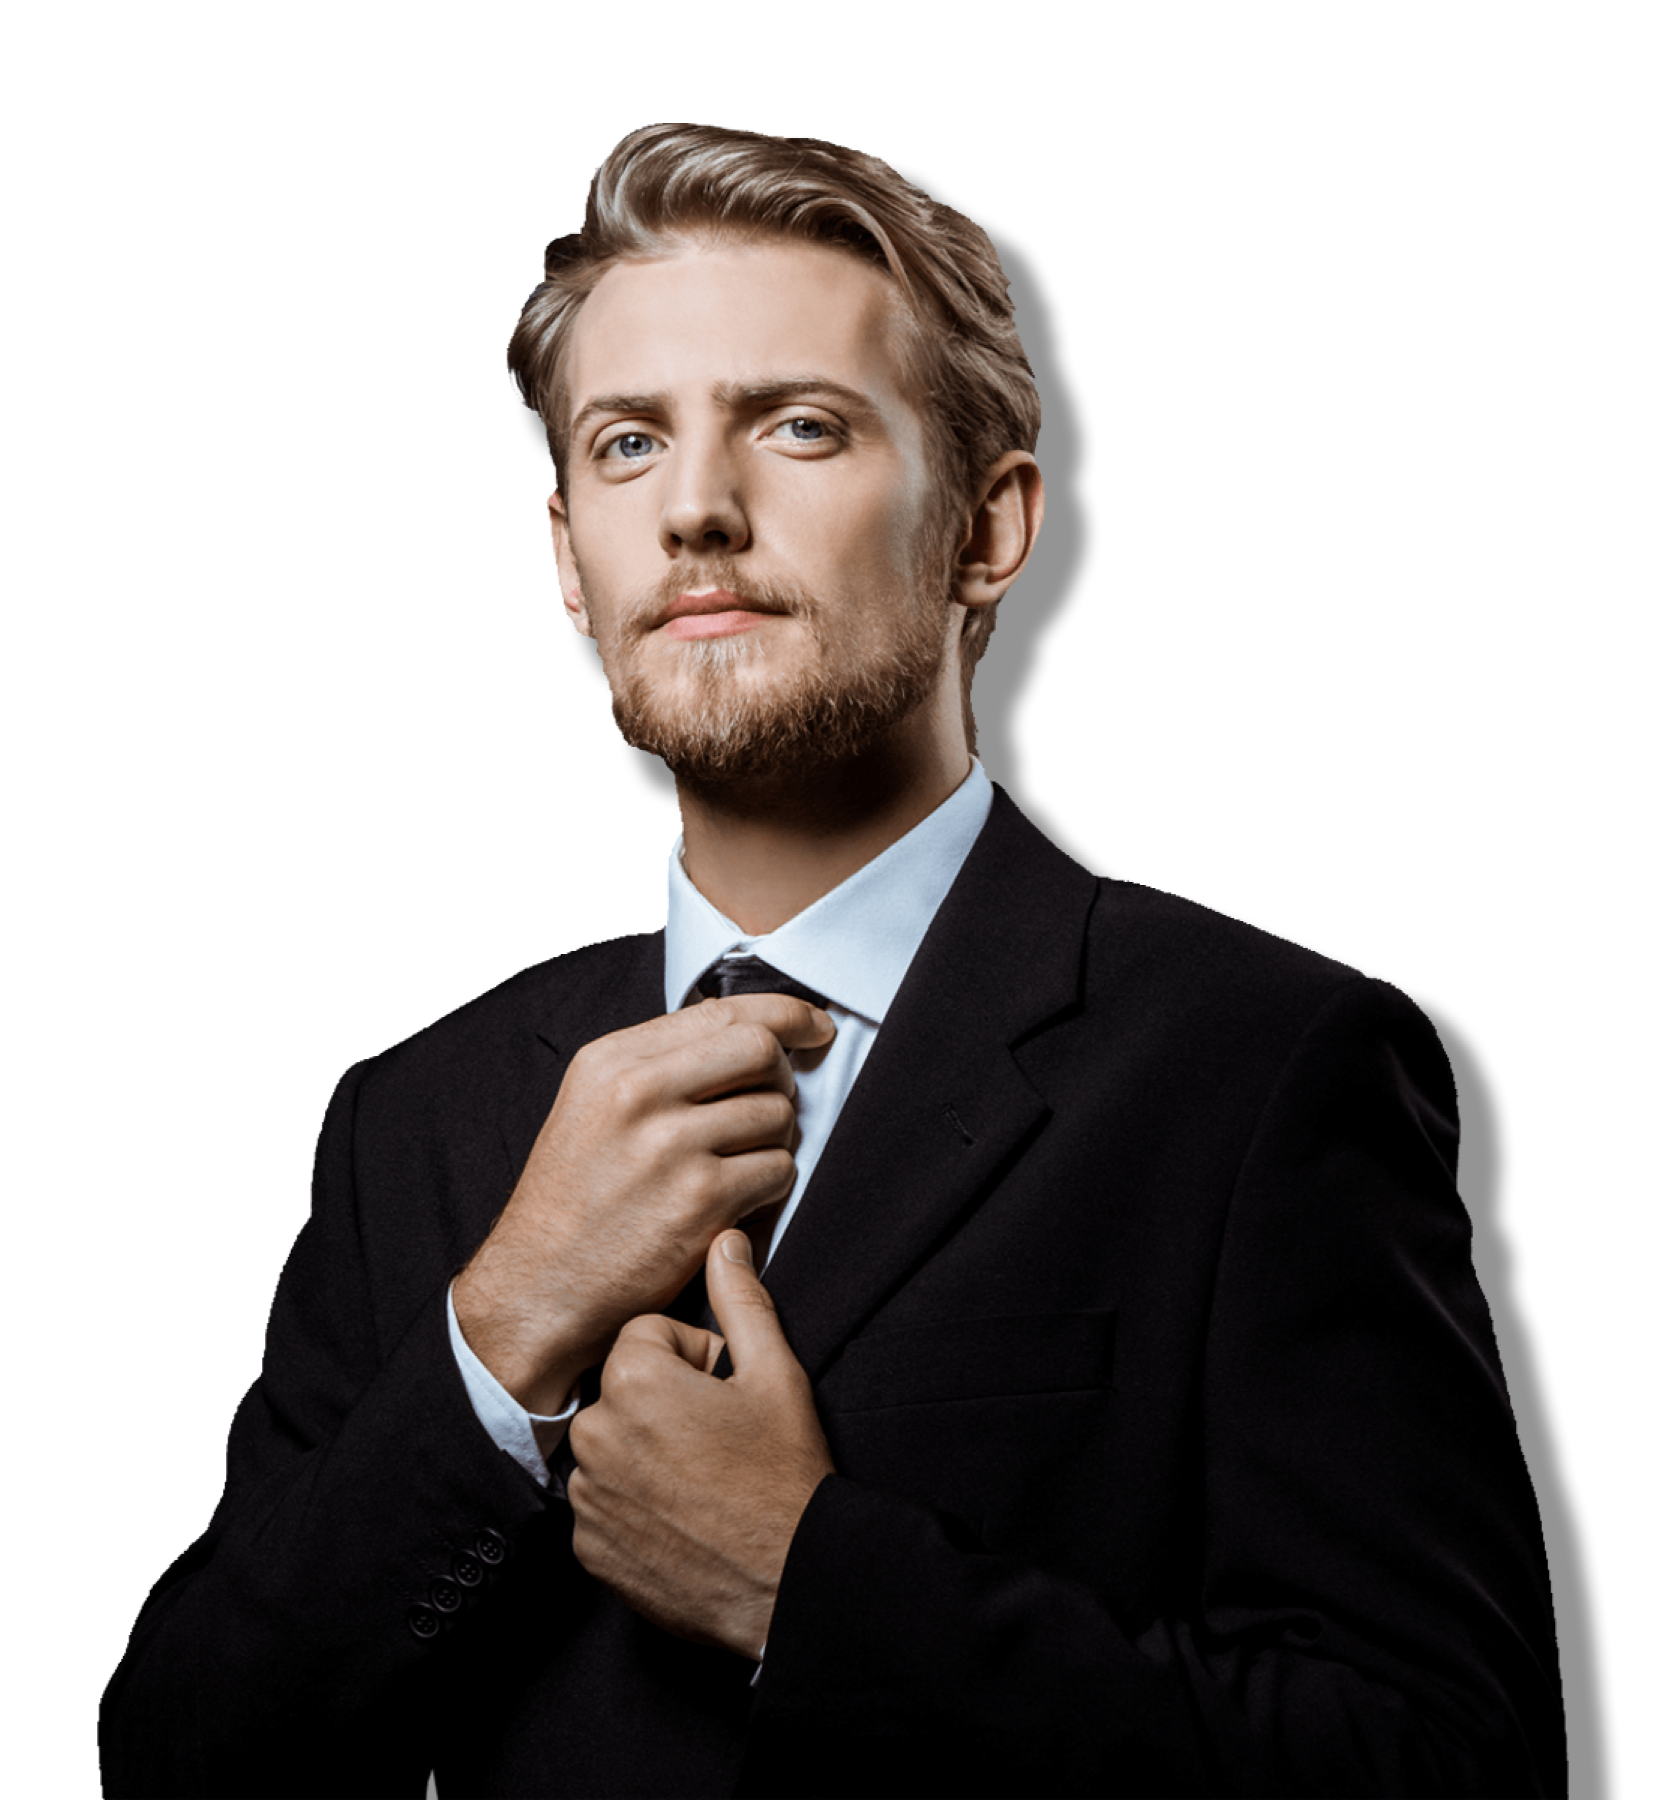
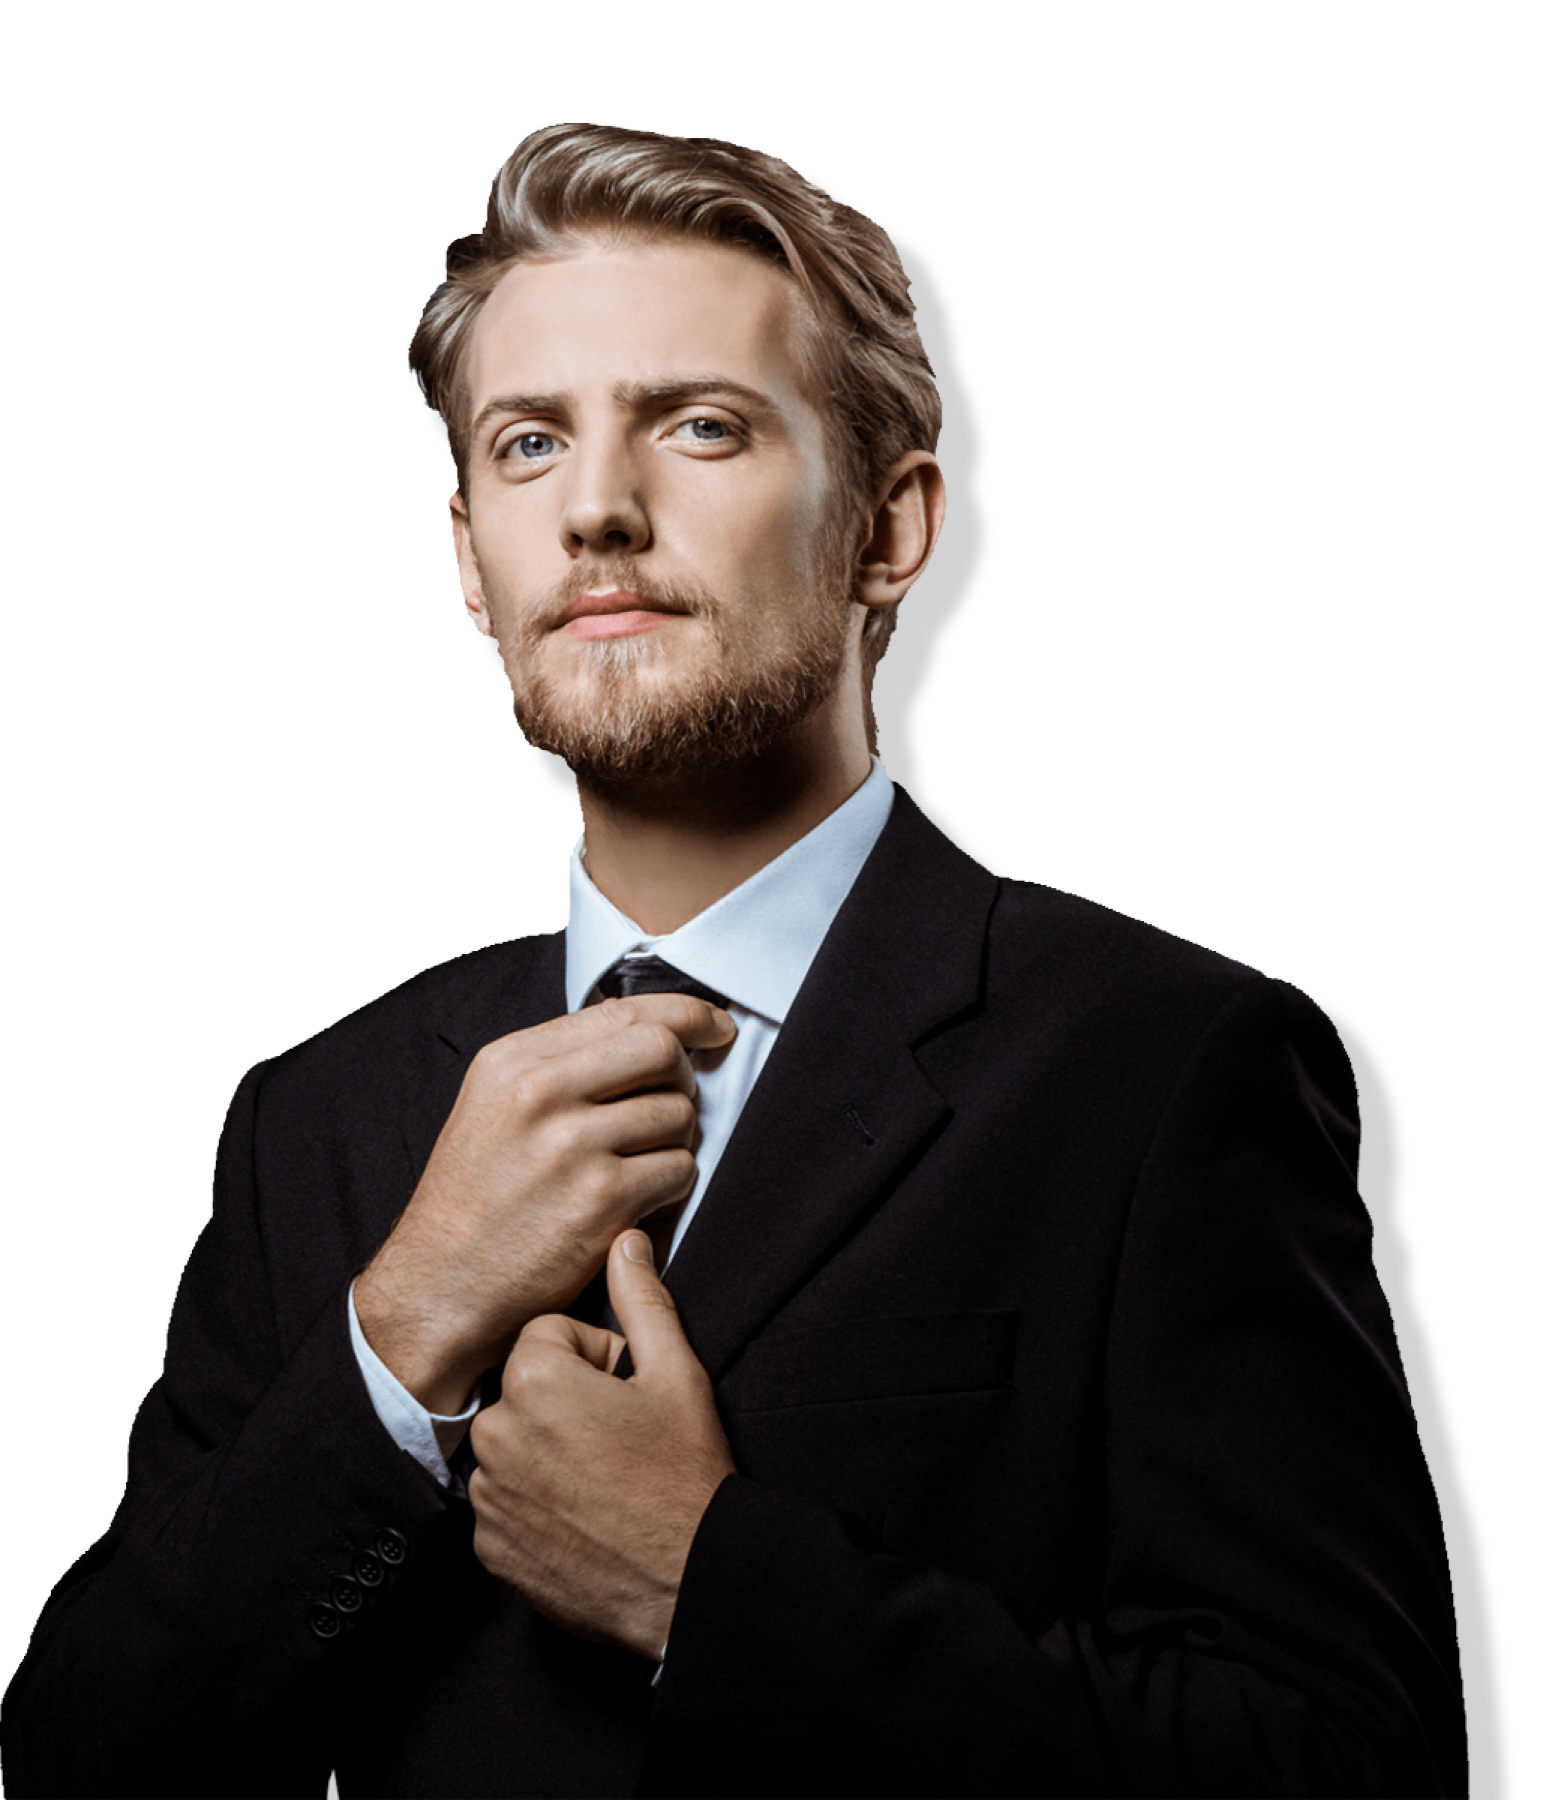
ref: Main, Header styles

diff --git a/src/layout/header/Header.tsx b/src/layout/header/Header.tsx
@@ -4,16 +4,20 @@ import styled from 'styled-components';
 import { IconStripe } from '../../assets/IconStripe';
 import { Container } from '../../components/Container';
 import { FlexWrapper } from '../../components/FlexWrapper';
+import LanguageSwitcher from '../../components/LanguageSwitcher';
 import { Menu } from '../../components/Menu';
 import { theme } from '../../styles/Theme';
 
 
 export const Header = () => {
   const [isScrolled, setIsScrolled] = useState(false);
+
   useEffect(() => {
     if (typeof window !== "undefined") {
       window.addEventListener("scroll", () => setIsScrolled(window.scrollY > 50));
     }
+
+    return window.removeEventListener("scroll", () => setIsScrolled(window.scrollY > 50));
   }, []);
 
   return (
@@ -22,8 +26,9 @@ export const Header = () => {
         <OverflowWrapper>
           <FlexWrapper justify="space-between" align="center">
             <IconStripe iconId="logo" height="67px" fill={theme.colors.fontShaddy} />
-            <FlexWrapper gap="90px">
+            <FlexWrapper justify="space-between">
               <Menu icons="no" />
+              <LanguageSwitcher />
             </FlexWrapper>
           </FlexWrapper>
         </OverflowWrapper>
@@ -31,6 +36,10 @@ export const Header = () => {
     </StyledHeader>
   );
 };
+
+const OverflowWrapper = styled.div`
+  overflow: hidden;
+`;
 
 const StyledHeader = styled.header<{ isScrolled: boolean }>`
   position: fixed;
@@ -41,6 +50,7 @@ const StyledHeader = styled.header<{ isScrolled: boolean }>`
   font-weight: 400;
   line-height: 150%;
   letter-spacing: 0.01em;
+  white-space: nowrap;
   text-align: left;
   z-index: 100;
 
@@ -51,18 +61,21 @@ const StyledHeader = styled.header<{ isScrolled: boolean }>`
     transition: 0.15s cubic-bezier(0.4, 0, 0.2, 1);
   }
 
-  ${FlexWrapper}:first-child {
-    transform: ${(props) => (props.isScrolled ? "translateX(0)" : "translateX(-120px)")};
+  ${OverflowWrapper} > ${FlexWrapper}:nth-child(1) {
+    transform: ${(props) => (props.isScrolled ? "translateX(0)" : "translateX(-80px)")};
     transition: 0.1s ease-in-out;
     margin: 17px;
+    justify-content: space-between;
+
+    & > ${FlexWrapper}:nth-child(2) {
+      flex-basis: 950px;
+    }
   }
 
   svg {
     opacity: ${(props) => (props.isScrolled ? "1" : "0")};
     transition: 0.15s cubic-bezier(0.4, 0, 0.2, 1);
+    flex-shrink: 0;
+    margin-right: 15px;
   }
-`;
-
-const OverflowWrapper = styled.div`
-  overflow: hidden;
 `;

diff --git a/src/layout/section/main/Main.tsx b/src/layout/section/main/Main.tsx
@@ -13,6 +13,15 @@ import { theme } from '../../../styles/Theme';
 
 export const Main = () => {
   const t = useTranslations("main");
+
+  const imageStyle = {
+    flexGrow: 1,
+    flexBasis: "60%",
+    maxWidth: "60%",
+    objectFit: "cover",
+    objectPosition: "left",
+  } as React.CSSProperties;
+
   return (
     <StyledMain id="Main">
       <Container>
@@ -29,13 +38,7 @@ export const Main = () => {
             <Description>{t("description")}</Description>
             {/* <CustomButton text="readMore" /> */}
           </StyledInfo>
-          <Image
-            alt="Main image"
-            width={833}
-            src={mainImage}
-            quality={100}
-            style={{ objectPosition: "60px 0" }}
-          />
+          <Image alt="Main image" width={833} src={mainImage} quality={100} style={imageStyle} />
         </FlexWrapper>
       </Container>
     </StyledMain>
@@ -51,7 +54,7 @@ const StyledMain = styled.section`
 
 const StyledInfo = styled.div`
   margin-top: 102px;
-  flex-basis: 548px;
+  flex-basis: 40%;
   flex-grow: 1;
 
   display: flex;
